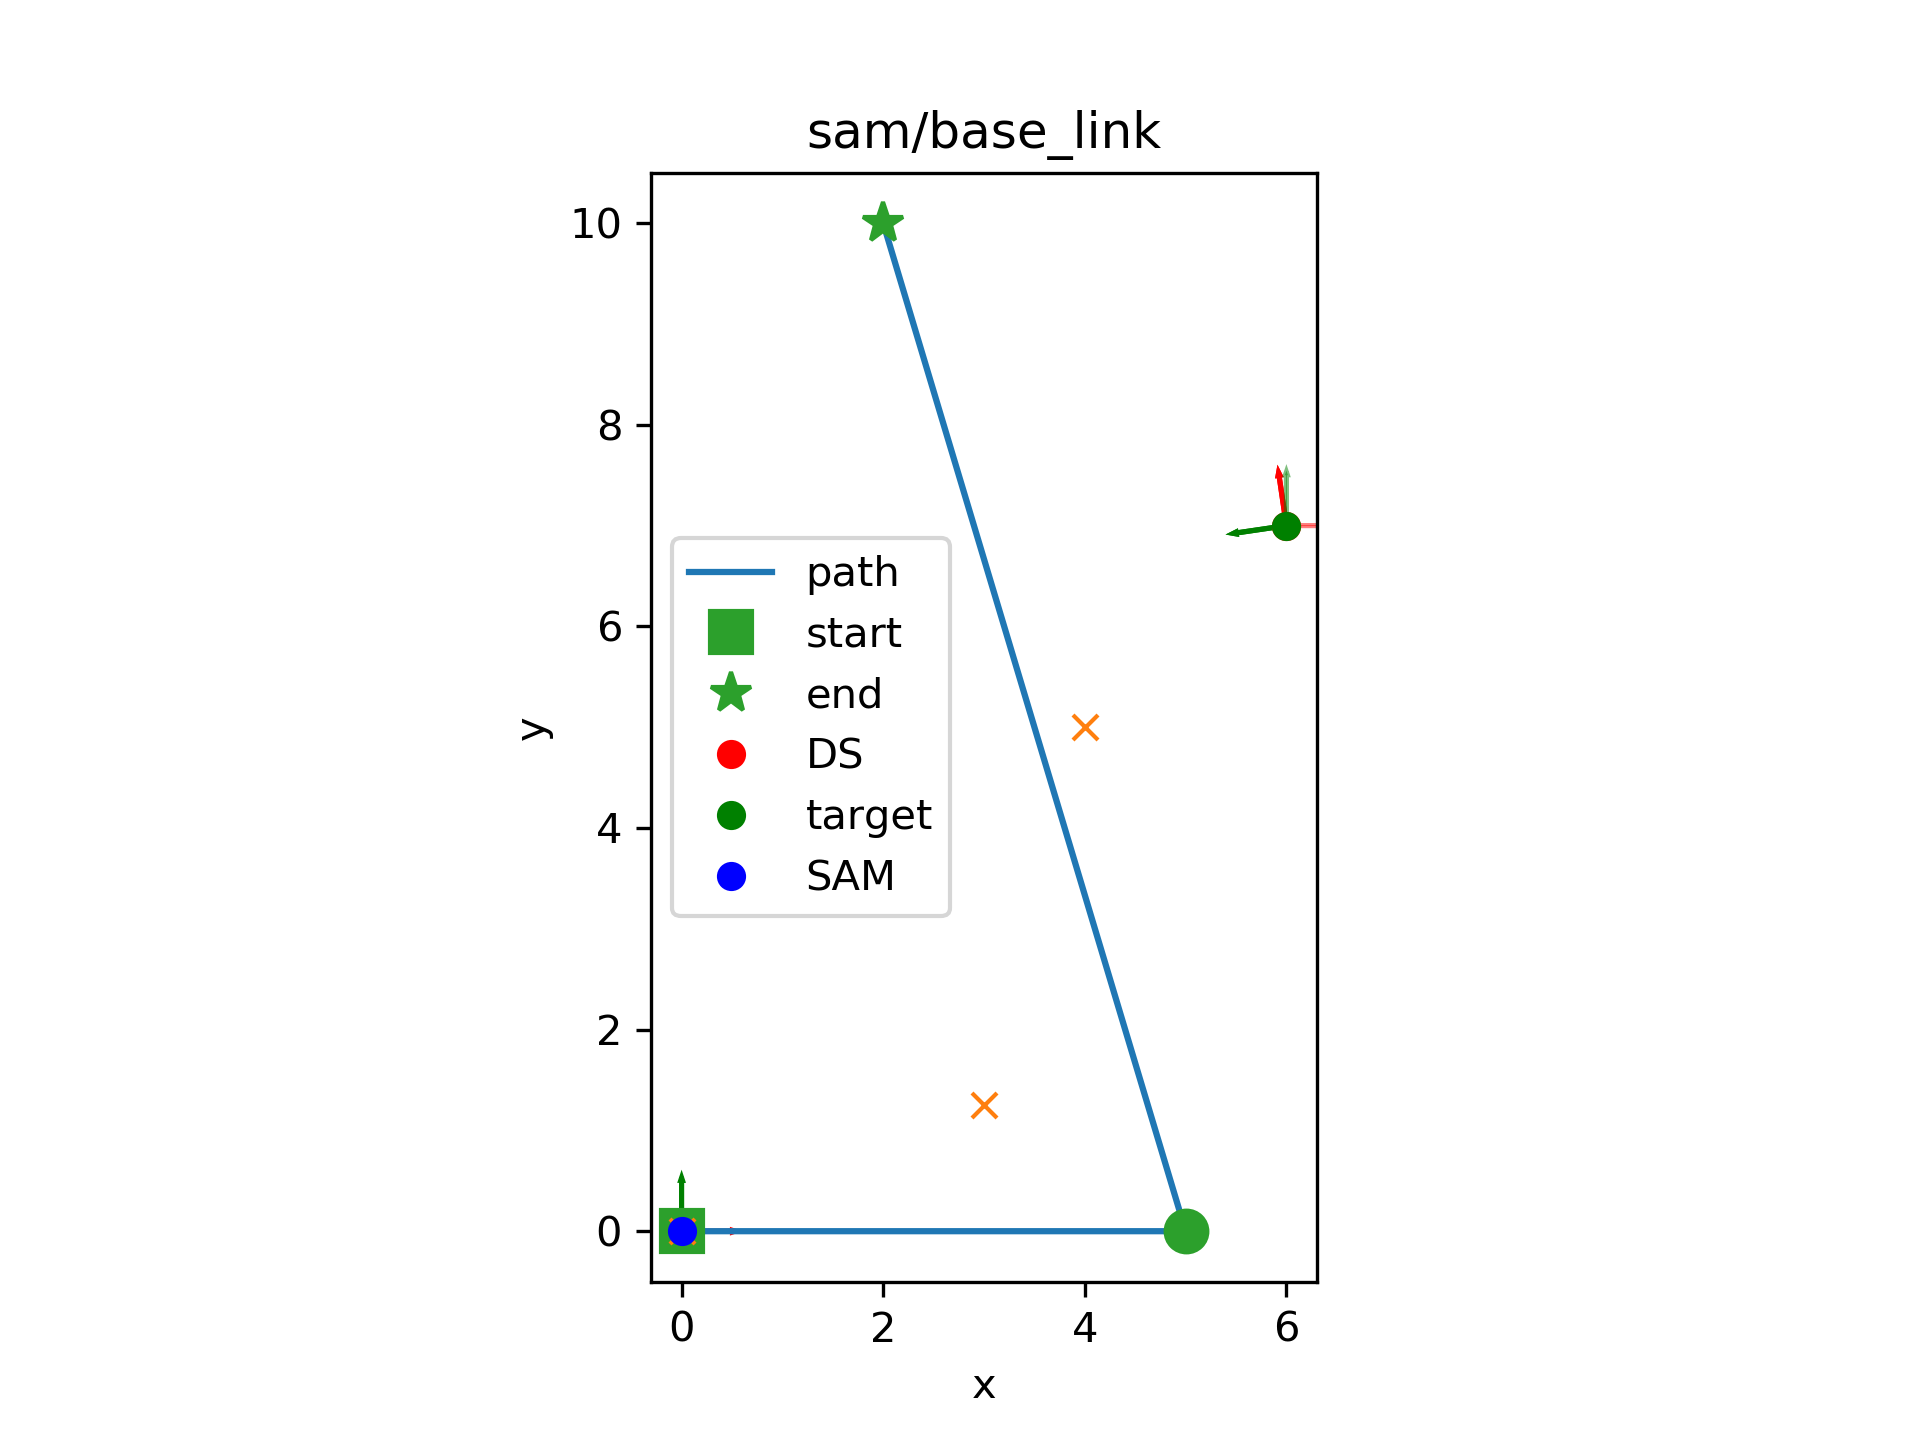
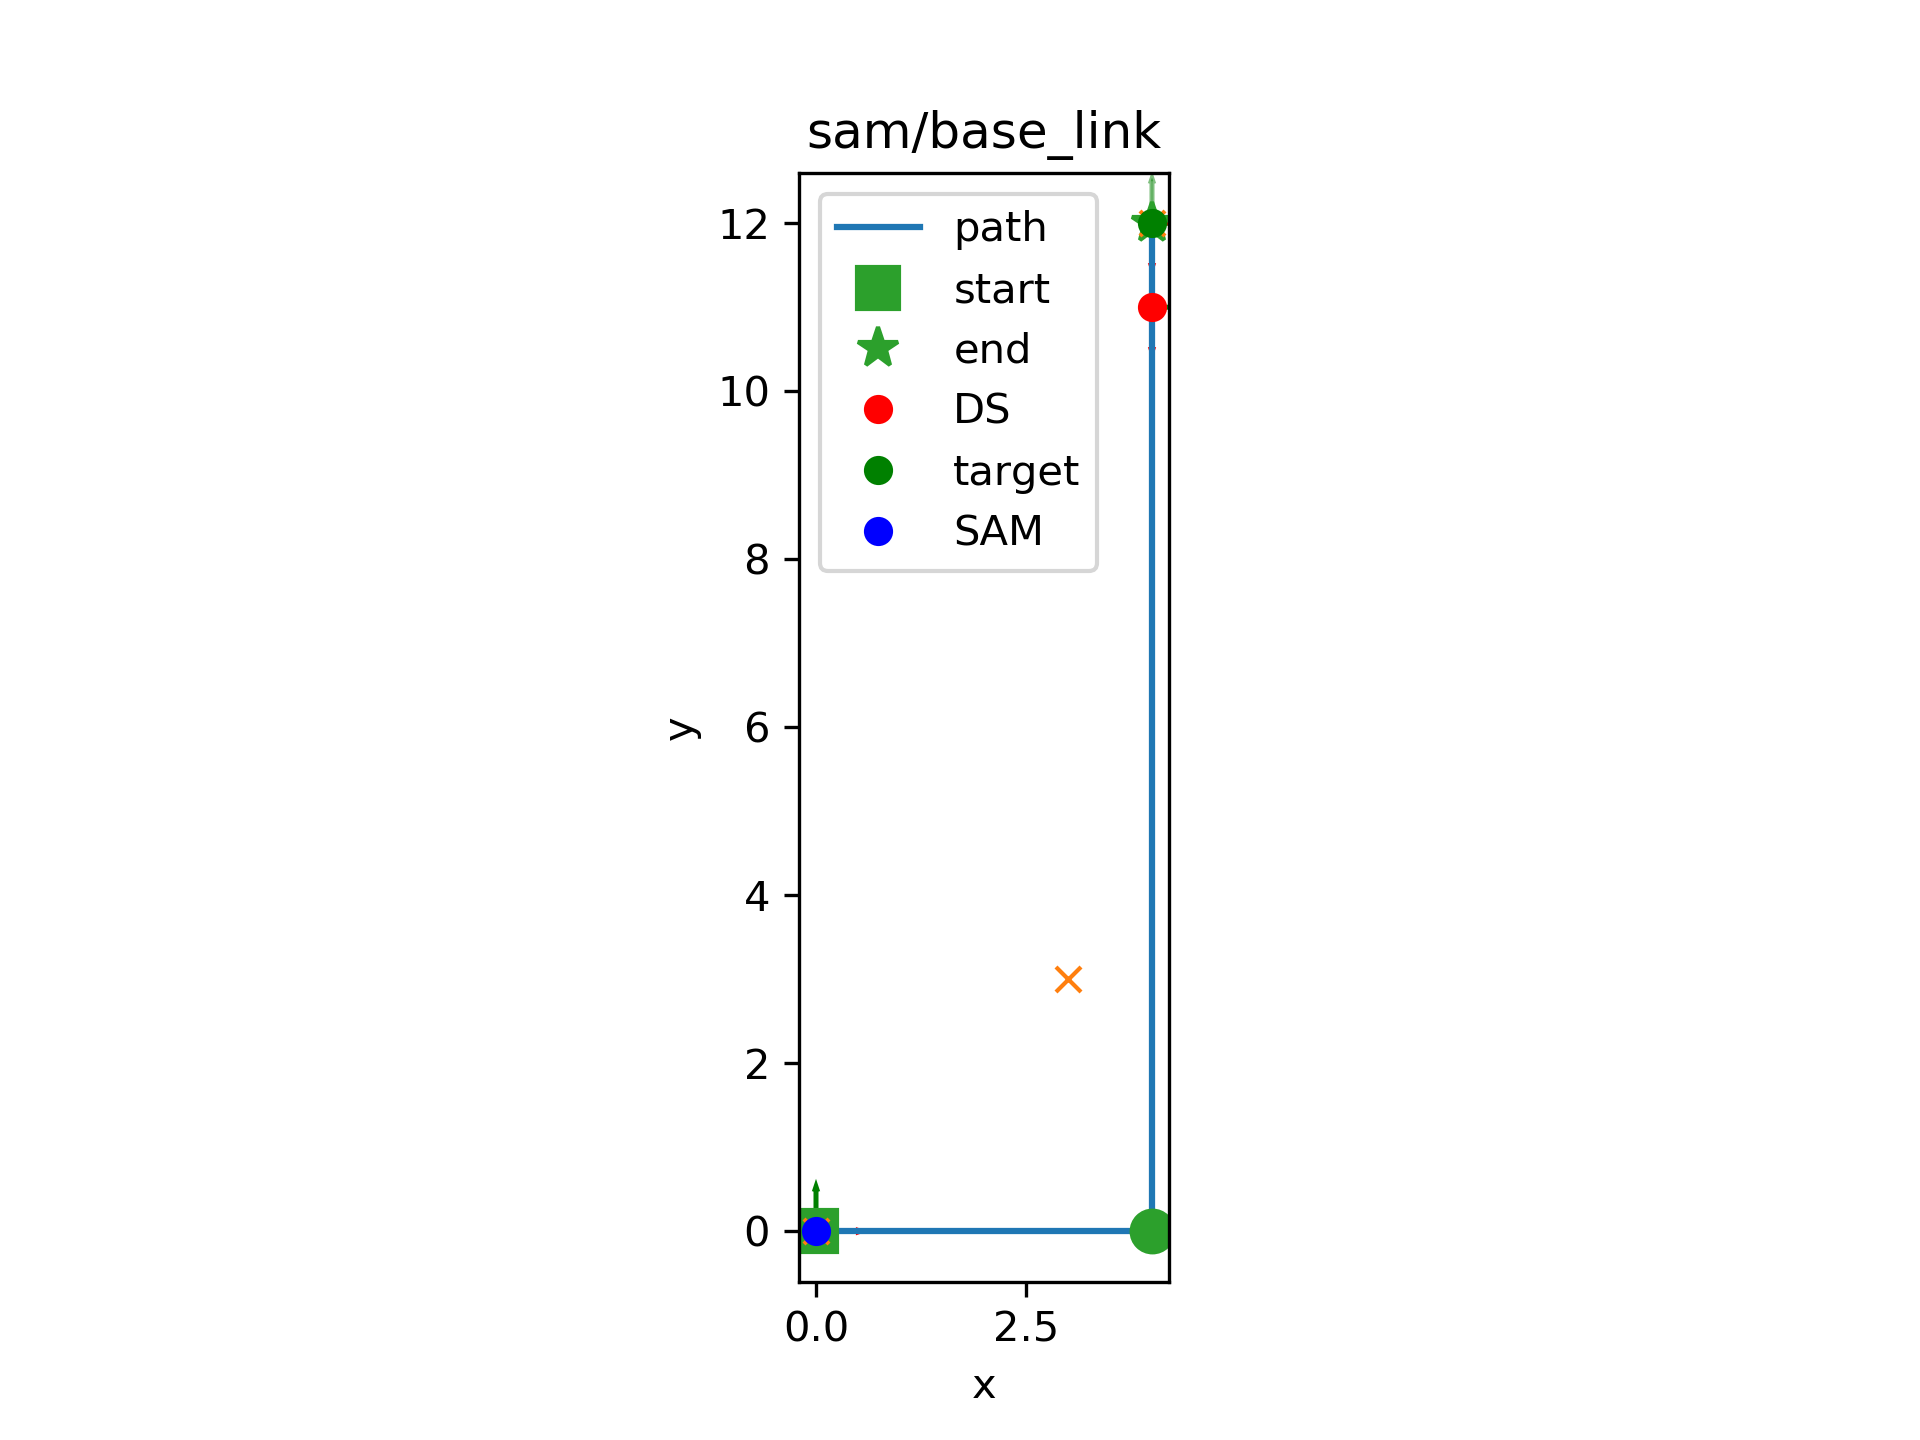
Refactored Path Planner
All ROS-related thigns happen in the planner node, while the
algorithmic side happens in the Python script

diff --git a/src/planner_node.py b/src/planner_node.py
@@ -1,0 +1,270 @@
+#!/usr/bin/python3
+"""
+ROS Node for simple path planner for underwater proxops
+
+Copyright 2023 David Doerner (ddorner@kth.se)
+"""
+from __future__ import division, print_function
+
+import numpy as np
+
+from simple_path_planner import SimplePathPlanner
+
+import rospy
+from geometry_msgs.msg import PoseWithCovarianceStamped, PoseStamped
+
+from tf.transformations import euler_from_quaternion
+import tf
+
+class PlannerNode(object):
+    """
+    Planner Node Class, with all the interfaces to the planner of choice.
+    """
+
+    def __init__(self):
+        # External Parameter
+        self.loop_freq = rospy.get_param("~loop_freq", 20)
+        rate = rospy.Rate(self.loop_freq)
+        verbose = rospy.get_param("~verbose", True)
+
+        # Init planner
+        self.planner = SimplePathPlanner()
+
+        # Topics
+        docking_station_pose_topic = rospy.get_param("~docking_station_pose_topic")
+        state_estimate_topic = rospy.get_param("~state_estimation_topic")
+        waypoint_topic = rospy.get_param("~waypoint_topic")
+
+        # Subscribers
+        rospy.Subscriber(docking_station_pose_topic, PoseWithCovarianceStamped,
+                         self.docking_station_pose_cb, queue_size=1)
+        rospy.Subscriber(state_estimate_topic, PoseWithCovarianceStamped,
+                         self.state_estimat_cb, queue_size=1)
+
+        # Publisher
+        self.waypoint_pub = rospy.Publisher(waypoint_topic, PoseWithCovarianceStamped, queue_size=1)
+
+        # TF tree listener
+        self.listener = tf.TransformListener()
+        self.base_frame = 'sam/base_link'   # TODO: put that into the launch file.
+
+
+        # Run
+        while not rospy.is_shutdown():
+            print("Receiving goal?")
+            if self.planner.received_goal:
+                # 1. Check if you need to calculate a plan
+                print("Checking for plan")
+                plan_needed = self.planner.check_require_plan()
+                # 1.1 Yes: Calculate Plan
+                if plan_needed:
+                    print("Planning")
+                    if self.planner.check_in_feasible_region():
+                        self.planner.calculate_path_segments()
+                        self.planner.calculate_bezier_curve()
+                        self.calculated_path = True
+
+                        # Plot Path -> saves to file
+                        self.planner.plot_path()
+                        self.planner.plot_tf_sam_base()
+                    else:
+                        self.planner.plot_position()
+                # 1.2 No: continue
+
+                if self.calculated_path:
+                    # 2. Get current waypoint
+                    self.planner.get_current_waypoint()
+
+                    # 3. Publish current waypoint
+                    self.publish_current_waypoint()
+            # else:
+                # print("No goal available")
+
+            if verbose:
+                self.planner.print_states()
+
+            # 4. Sleep
+            rate.sleep()
+
+
+    #region Callbacks
+    def docking_station_pose_cb(self, docking_station_pose_msg):
+        """
+        Callback to extract the docking station pose and calculate the 
+        corresponding target for docking.
+        """
+        # map frame
+        docking_station_pose = self.get_pose_from_mgs(docking_station_pose_msg.pose)
+        self.planner.goal[0] = docking_station_pose[0]
+        self.planner.goal[1] = docking_station_pose[1]
+        self.planner.goal[2] = docking_station_pose[5]
+
+        x_axis_docking_station, _ = self.planner.calculate_orientation_axes(self.planner.goal[2], -1)
+        self.planner.target = np.array([self.planner.goal[0] + x_axis_docking_station[0],
+                                        self.planner.goal[1] + x_axis_docking_station[1]])
+
+        target_map = PoseWithCovarianceStamped()
+        target_map.header.frame_id = 'map'
+        target_map.header.stamp = rospy.Time(0)
+        target_map.pose.pose.position.x = self.planner.target[0]
+        target_map.pose.pose.position.y = self.planner.target[1]
+        target_map.pose.pose.position.z = 0.
+        target_map.pose.pose.orientation.x = docking_station_pose_msg.pose.pose.orientation.x
+        target_map.pose.pose.orientation.y = docking_station_pose_msg.pose.pose.orientation.y
+        target_map.pose.pose.orientation.z = docking_station_pose_msg.pose.pose.orientation.z
+        target_map.pose.pose.orientation.w = docking_station_pose_msg.pose.pose.orientation.w
+
+        self.planner.goal_base = self.transform_to_base(docking_station_pose_msg)
+        self.planner.target_base = self.transform_to_base(target_map)
+
+        self.planner.received_goal = True
+
+
+    def transform_to_base(self, pose_arg):
+        """
+        Transform a pose into base frame.
+        """
+        pose_base = np.array([0., 0., 0.])
+
+        # Transform into sam/baselink
+        tmp_pose = PoseStamped()
+        tmp_pose.header.frame_id = 'map'
+        tmp_pose.header.stamp = rospy.Time(0)
+        tmp_pose.pose.position.x = pose_arg.pose.pose.position.x
+        tmp_pose.pose.position.y = pose_arg.pose.pose.position.y
+        tmp_pose.pose.position.z = pose_arg.pose.pose.position.z
+        tmp_pose.pose.orientation.x = pose_arg.pose.pose.orientation.x
+        tmp_pose.pose.orientation.y = pose_arg.pose.pose.orientation.y
+        tmp_pose.pose.orientation.z = pose_arg.pose.pose.orientation.z
+        tmp_pose.pose.orientation.w = pose_arg.pose.pose.orientation.w
+
+        try:
+            goal_sam_base = self.listener.transformPose(self.base_frame, tmp_pose)
+
+            pose_base[0] = goal_sam_base.pose.position.x
+            pose_base[1] = goal_sam_base.pose.position.y
+
+            rpy = euler_from_quaternion([goal_sam_base.pose.orientation.x,
+                                         goal_sam_base.pose.orientation.y,
+                                         goal_sam_base.pose.orientation.z,
+                                         goal_sam_base.pose.orientation.w])
+            pose_base[2] = rpy[2]
+        except (tf.LookupException, tf.ConnectivityException, tf.ExtrapolationException):
+            rospy.logwarn("[SPP]: Transform to base frame not available yet")
+
+        return pose_base
+
+
+    def transform_to_map(self, pose_arg):
+        """
+        Transform a pose into map frame
+        """
+        pose_map = PoseStamped()
+
+        # Transform into map
+        tmp_pose = PoseStamped()
+        tmp_pose.header.frame_id = pose_arg.header.frame_id
+        tmp_pose.header.stamp = rospy.Time(0)
+        tmp_pose.pose.position.x = pose_arg.pose.pose.position.x
+        tmp_pose.pose.position.y = pose_arg.pose.pose.position.y
+        tmp_pose.pose.position.z = pose_arg.pose.pose.position.z
+        tmp_pose.pose.orientation.x = pose_arg.pose.pose.orientation.x
+        tmp_pose.pose.orientation.y = pose_arg.pose.pose.orientation.y
+        tmp_pose.pose.orientation.z = pose_arg.pose.pose.orientation.z
+        tmp_pose.pose.orientation.w = pose_arg.pose.pose.orientation.w
+
+        try:
+            pose_map = self.listener.transformPose('map', tmp_pose)
+
+        except (tf.LookupException, tf.ConnectivityException, tf.ExtrapolationException):
+            rospy.logwarn("[SPP]: Transform to base frame not available yet")
+
+        return pose_map
+
+
+    def state_estimat_cb(self,estim):
+        """
+        Get SAM's pose from the DR into the planner
+        """
+        pose_sam = self.get_pose_from_mgs(estim.pose)
+        self.planner.start[0] = pose_sam[0]
+        self.planner.start[1] = pose_sam[1]
+        self.planner.start[2] = pose_sam[5]
+
+
+    def get_pose_from_mgs(self, pose):
+        """
+        Pose is in ENU. The callback extracts the position and Euler angles.
+        """
+        # Pose in ENU
+        x_enu = pose.pose.position.x
+        y_enu = pose.pose.position.y
+        z_enu = pose.pose.position.z
+
+        eta0_enu = pose.pose.orientation.w
+        eta1_enu = pose.pose.orientation.x
+        eta2_enu = pose.pose.orientation.y
+        eta3_enu = pose.pose.orientation.z
+
+        rpy_enu = euler_from_quaternion([eta1_enu,eta2_enu,eta3_enu,eta0_enu])
+
+        roll_enu = rpy_enu[0]
+        pitch_enu = rpy_enu[1]
+        yaw_enu = rpy_enu[2]
+
+        states = np.array([x_enu, y_enu, z_enu, roll_enu, pitch_enu, yaw_enu])
+
+        return states
+    #endregion
+
+
+    def publish_current_waypoint(self):
+        """
+        Transform the current waypoint into the map frame and publish it
+        """
+        try:
+            current_waypoint_base = self.transform_waypoint_to_pose(self.planner.current_waypoint)
+            tmp_waypoint_map = self.transform_to_map(current_waypoint_base)
+
+            # We always publish PoseWithCovarianceStamped, but tf.listener only can transform PoseStamped.
+            current_waypoint_map = PoseWithCovarianceStamped()
+            current_waypoint_map.header.frame_id = 'map'
+            current_waypoint_map.header.stamp = rospy.Time(0)
+            current_waypoint_map.pose.pose.position.x = tmp_waypoint_map.pose.position.x
+            current_waypoint_map.pose.pose.position.y = tmp_waypoint_map.pose.position.y
+            current_waypoint_map.pose.pose.position.z = tmp_waypoint_map.pose.position.z
+            current_waypoint_map.pose.pose.orientation.x = tmp_waypoint_map.pose.orientation.x
+            current_waypoint_map.pose.pose.orientation.y = tmp_waypoint_map.pose.orientation.y
+            current_waypoint_map.pose.pose.orientation.z = tmp_waypoint_map.pose.orientation.z
+            current_waypoint_map.pose.pose.orientation.w = tmp_waypoint_map.pose.orientation.w
+
+            self.waypoint_pub.publish(current_waypoint_map)
+
+        except (tf.LookupException, tf.ConnectivityException, tf.ExtrapolationException):
+            rospy.logwarn("map frame not available yet")
+
+
+    def transform_waypoint_to_pose(self, waypoint):
+        """
+        Transform the waypoint into a pose
+        """
+        waypoint_pose = PoseWithCovarianceStamped()
+        waypoint_pose.header.frame_id = self.base_frame
+        waypoint_pose.header.stamp = rospy.Time(0)
+        waypoint_pose.pose.pose.position.x = waypoint[0]
+        waypoint_pose.pose.pose.position.y = waypoint[1]
+        waypoint_pose.pose.pose.position.z = 0
+        waypoint_pose.pose.pose.orientation.w = 0
+        waypoint_pose.pose.pose.orientation.x = 0
+        waypoint_pose.pose.pose.orientation.y = 0
+        waypoint_pose.pose.pose.orientation.z = 0
+
+        return waypoint_pose
+
+
+if __name__ == "__main__":
+    rospy.init_node("SimplePathPlanner")
+    try:
+        PlannerNode()
+    except rospy.ROSInterruptException:
+        rospy.logerr("[Planner]: Couldn't lauch planner node")

diff --git a/src/simple_path_planner.py b/src/simple_path_planner.py
@@ -1,6 +1,12 @@
 #!/usr/bin/python3
-# Copyright 2023 David Doerner (ddorner@kth.se)
+"""
+Simple, bezier based path planner for underwater docking.
 
+Bezier implementation from
+https://towardsdatascience.com/b%C3%A9zier-curve-bfffdadea212
+
+Copyright 2023 David Doerner (ddorner@kth.se)
+"""
 from __future__ import division, print_function
 
 import os
@@ -15,9 +21,11 @@ class SimplePathPlanner(object):
     """
     Bezier curve-based path planner. Returns the current waypoint
     """
-    def __init__(self, name):
-
-        # Init
+    def __init__(self):
+        """
+        Init function
+        TODO: Might be good to externalise the int values?
+        """
         # map frame
         self.start = np.array([0., 0., np.deg2rad(0)])
         self.goal = np.array([0., 0., np.deg2rad(90)])
@@ -56,10 +64,6 @@ class SimplePathPlanner(object):
 
         self.current_waypoint = [0., 0.]
 
-        # TF tree listener
-        # TODO: Put that into the corresponding ROS node
-        # self.listener = tf.TransformListener()
-        # self.base_frame = 'sam/base_link/estimated'
 
     #region functions
     def check_require_plan(self):
@@ -167,20 +171,7 @@ class SimplePathPlanner(object):
         distance = np.linalg.norm([x_diff, y_diff])
         return distance
 
-    # TODO: Put that in the ROS Node
-    # def waypoint2pose(self, waypoint):
-    #     poseWaypoint = PoseWithCovarianceStamped()
-    #     poseWaypoint.header.frame_id = self.base_frame
-    #     poseWaypoint.header.stamp = rospy.Time(0)
-    #     poseWaypoint.pose.pose.position.x = waypoint[0]
-    #     poseWaypoint.pose.pose.position.y = waypoint[1]
-    #     poseWaypoint.pose.pose.position.z = 0
-    #     poseWaypoint.pose.pose.orientation.w = 0
-    #     poseWaypoint.pose.pose.orientation.x = 0
-    #     poseWaypoint.pose.pose.orientation.y = 0
-    #     poseWaypoint.pose.pose.orientation.z = 0
-
-    #     return poseWaypoint
+    
 
     #region Plotting
     def plot_path(self):
@@ -338,7 +329,7 @@ class SimplePathPlanner(object):
 
     #region Outward-facing stuff
     # The callbacks set the corresponding variables here
-    # Then you have the corresponding functions that return whatever and the ROS node can convert 
+    # Then you have the corresponding functions that return whatever and the ROS node can convert
     # it into the proper frame etc.
 
     #endregion
